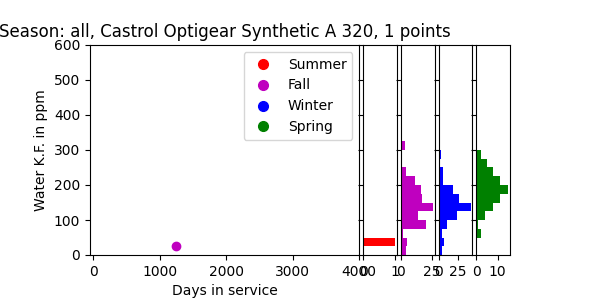
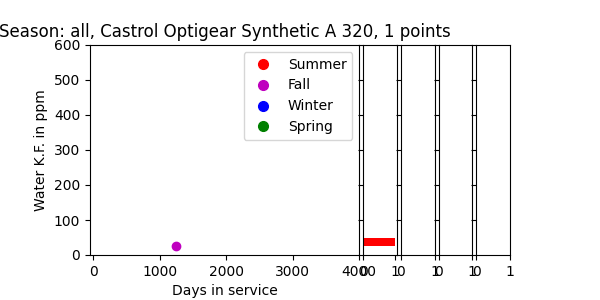
Sep 29, 2022, 8:11 PM

Changed region(s): [[0.66, 0.51, 0.87, 0.84], [0.69, 0.87, 0.87, 0.93], [0.66, 0.48, 0.69, 0.51]]

diff --git a/project/dataset.py b/project/dataset.py
@@ -263,9 +263,7 @@ class Dataset:
                                 if len(d3["x_values"]) > 0:                                    
                                     xymax = max(np.max(np.abs(d3["x_values"])), np.max(np.abs(d3["y_values"])))
                                     lim = (int(xymax/binwidth) + 1) * binwidth
-
-                                    bins = np.arange(-lim, lim + binwidth, binwidth)
-                                        
+                                    bins = np.arange(-lim, lim + binwidth, binwidth)                                        
                                     ax_histy_winter.hist(d3["y_values"], bins=bins, color="blue", orientation='horizontal')
                                 
                                 for d4 in ldsummer:
@@ -275,10 +273,9 @@ class Dataset:
                                         if len(d4["x_values"]) > 0:                    
                                             xymax = max(np.max(np.abs(d4["x_values"])), np.max(np.abs(d4["y_values"])))
                                             lim = (int(xymax/binwidth) + 1) * binwidth
-
-                                            bins = np.arange(-lim, lim + binwidth, binwidth)
-                                                
+                                            bins = np.arange(-lim, lim + binwidth, binwidth)                                                
                                             ax_histy_spring.hist(d4["y_values"], bins=bins, color="green", orientation='horizontal')
+                                            break
                                         
                 ax.set_title(f"Season: all, {noil}, {npoints} points")               
 
